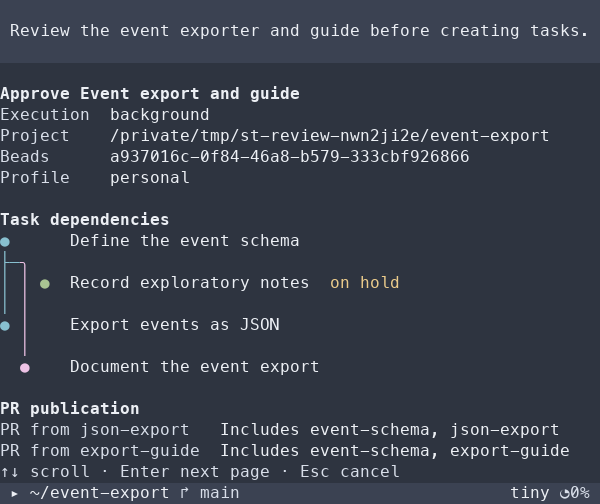
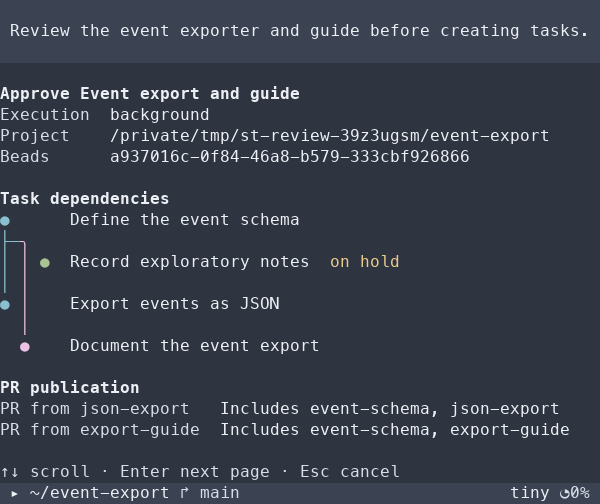
fix(plan): omit the session profile from plan approval

diff --git a/tests/plan-review.test.ts b/tests/plan-review.test.ts
@@ -51,7 +51,6 @@ const review: PlanReview = {
     { label: "Execution", value: "interactive in Zellij work, tab 2" },
     { label: "Project", value: "/example/local-project" },
     { label: "Beads", value: "example-beads" },
-    { label: "Profile", value: "personal" },
   ],
   publications: [
     { label: "PR from publish", value: "Includes source, publish" },
@@ -105,7 +104,6 @@ test("approval displays the colored dependency graph and complete structured con
     "Execution  interactive in Zellij work, tab 2",
     "Project    /example/local-project",
     "Beads      example-beads",
-    "Profile    personal",
     "PR from publish  Includes source, publish",
     "Keep the first scope local.\nPreserve the next paragraph.",
     "Acceptance    Local integration is verified.",

diff --git a/discovery/extension.ts b/discovery/extension.ts
@@ -521,7 +521,6 @@ export function registerDiscovery(
                 },
                 { label: "Project", value: target.root },
                 { label: "Beads", value: target.id },
-                { label: "Profile", value: target.profile },
               ],
               publications: draft.tasks
                 .filter((task) => task.delivery === TaskDelivery.PullRequest)

diff --git a/acceptance/plan-review.py b/acceptance/plan-review.py
@@ -55,7 +55,6 @@ export default function(pi) {{
         {{label:'Execution',value:'background'}},
         {{label:'Project',value:{json.dumps(str(project))}}},
         {{label:'Beads',value:'a937016c-0f84-46a8-b579-333cbf926866'}},
-        {{label:'Profile',value:'personal'}},
       ],
       publications: [
         {{label:'PR from json-export',value:'Includes event-schema, json-export'}},
@@ -111,7 +110,7 @@ export default function(pi) {{
                     captured_details = True
             else:
                 raise AssertionError("Approval action never became available\n" + terminal.text())
-            for field in ("Execution", "background", "Project", "event-export", "Beads", "a937016c", "Profile", "personal", "Includes event-schema, json-export", "Acceptance", "Requirements", "Owns", "Admission", "on hold", "Delivery", "Verification", "schema/events.json", "Blocked by", "R1", "Merge manually"):
+            for field in ("Execution", "background", "Project", "event-export", "Beads", "a937016c", "Includes event-schema, json-export", "Acceptance", "Requirements", "Owns", "Admission", "on hold", "Delivery", "Verification", "schema/events.json", "Blocked by", "R1", "Merge manually"):
                 assert field in seen, f"Review lost {field!r}"
             assert not receipt.exists(), "Scrolling submitted the plan"
             terminal.capture("plan-review-end")

diff --git a/README.md b/README.md
@@ -150,7 +150,7 @@ Run `uv run --script acceptance/plan-review.py --output /path/to/captures` for t
 
 Run `bun run test:socrates-ui` for the native Pi terminal check with isolated state and loopback fixtures. Run `uv run --script acceptance/conversation-plan.py` to verify fresh conversational drafting and `/plan` inspection without execution. Both checks accept `--output /path/to/captures` to retain terminal-cell renderings, text, and raw ANSI. The conversational check captures a [local plan](docs/assets/conversation-plan-128.png) from a native Pi PTY.
 
-At the end of Socrates, review the proposed graph with `/plan`. The final graph must cover every frozen requirement, and each bead must link to the requirement it serves. Socrates settles PR delivery explicitly. It can record local integration for the whole plan, one PR per bead, or PRs from named beads. For each publishing bead, the approval screen names the beads whose changes its PR will include. A PR-producing plan also records whether a person merges or the existing project merge policy applies. The decision cites the operator’s choice, the brief or an applicable repository rule. While the answer is open, task details show delivery as undecided. `/plan-delivery TASK_KEY local|pull-request` can adjust a draft proposal. Revising an agreed publication rule requires updating the Socrates decision and reconciling the plan. `/plan-approve` opens a colored dependency graph followed by structured task details and the full specification. The review shows the exact project, execution profile, task scopes, dependencies, hold intent, delivery obligations and checks. Scroll through the complete review before pressing Enter to approve; Esc cancels. Confirming that review starts runtime preflight, creates the graph and authorizes eligible workers. The lead can continue coding while they run. Outside Socrates, you can still request a local plan in conversation or with `/plan-draft DESCRIPTION`.
+At the end of Socrates, review the proposed graph with `/plan`. The final graph must cover every frozen requirement, and each bead must link to the requirement it serves. Socrates settles PR delivery explicitly. It can record local integration for the whole plan, one PR per bead, or PRs from named beads. For each publishing bead, the approval screen names the beads whose changes its PR will include. A PR-producing plan also records whether a person merges or the existing project merge policy applies. The decision cites the operator’s choice, the brief or an applicable repository rule. While the answer is open, task details show delivery as undecided. `/plan-delivery TASK_KEY local|pull-request` can adjust a draft proposal. Revising an agreed publication rule requires updating the Socrates decision and reconciling the plan. `/plan-approve` opens a colored dependency graph followed by structured task details and the full specification. The review shows the exact project, execution mode, task scopes, dependencies, hold intent, delivery obligations and checks. Scroll through the complete review before pressing Enter to approve; Esc cancels. Confirming that review starts runtime preflight, creates the graph and authorizes eligible workers. The lead can continue coding while they run. Outside Socrates, you can still request a local plan in conversation or with `/plan-draft DESCRIPTION`.
 
 ![Plan approval with colored task dependencies and structured review context](docs/assets/plan-review-128.png)
 
